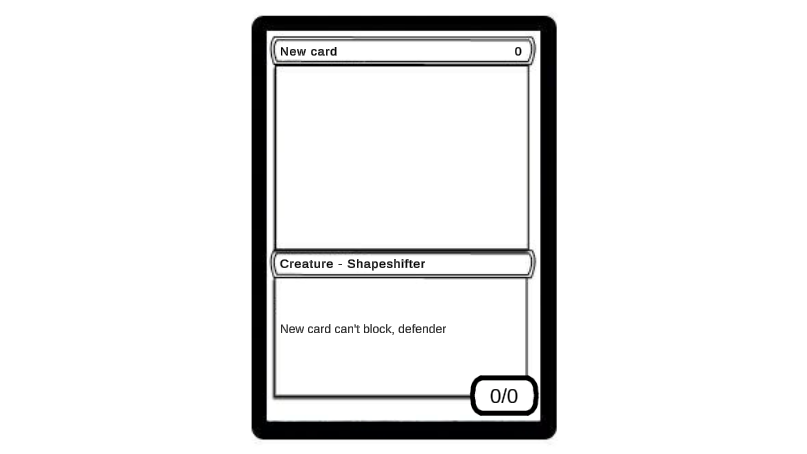
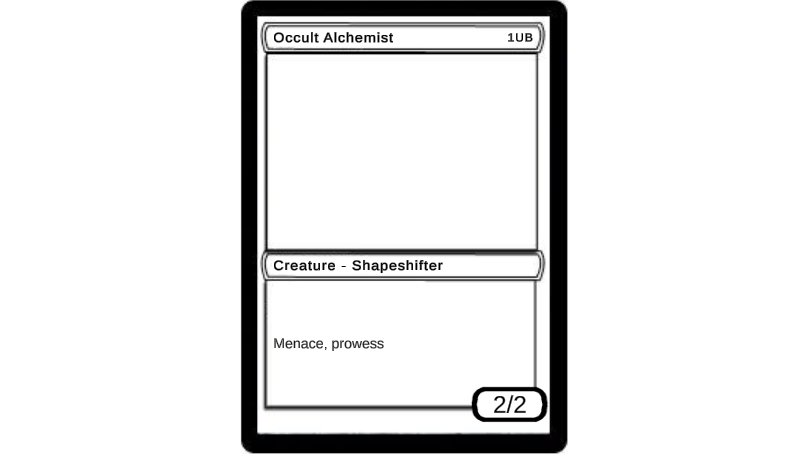
finished project

Changed region(s): [[0.2788, 0.0, 0.7125, 1.0]]

diff --git a/The Card Factory/Assets/Scripts/CardMaker.cs b/The Card Factory/Assets/Scripts/CardMaker.cs
@@ -24,14 +24,14 @@ public class Colors {
 }
 
 public class Ability {
-    public string name;
+    public string text;
     public int pointCost;
     public Colors colorRequirement;
     public bool chosen;
 
-    public Ability(string name, int pointCost, Colors colorRequirement) {
+    public Ability(string text, int pointCost, Colors colorRequirement) {
         this.pointCost = pointCost;
-        this.name = name;
+        this.text = text;
         this.colorRequirement = colorRequirement;
         chosen = false;
     }
@@ -67,6 +67,7 @@ public class CardMaker : MonoBehaviour {
         ability1 = new CreatureAbility();
         ability2 = new CreatureAbility();
 
+        Toughness = 1;
         ColorIdentity = new Colors(false, false, false, false, false);
         DefineAbilities();
         CheckValidAbilities();
@@ -87,10 +88,10 @@ public class CardMaker : MonoBehaviour {
             }
         }
 
-        if(ability1 != null && ability1.Active && HasRequiredColor(ability1.Effect.ColorRequirement)) {
+        if(ability1 != null && ability1.Active && HasRequiredColor(ability1.Effect.colorRequirement)) {
             PointTotal -= ability1.Cost;
         }
-        if(ability2 != null && ability2.Active && HasRequiredColor(ability2.Effect.ColorRequirement)) {
+        if(ability2 != null && ability2.Active && HasRequiredColor(ability2.Effect.colorRequirement)) {
             PointTotal -= ability2.Cost;
         }
     }
@@ -118,7 +119,7 @@ public class CardMaker : MonoBehaviour {
         string rulesText = "";
         foreach(Ability ability in keywordOptions) {
             if(ability.chosen) {
-                rulesText += ability.name + ", ";
+                rulesText += ability.text + ", ";
             }
         }
         if(rulesText.Length > 0) {
@@ -127,10 +128,10 @@ public class CardMaker : MonoBehaviour {
         }
 
 
-        if(ability1 != null && ability1.Active && HasRequiredColor(ability1.Effect.ColorRequirement)) {
+        if(ability1 != null && ability1.Active && HasRequiredColor(ability1.Effect.colorRequirement)) {
             rulesText += (rulesText.Length > 0 ? "\n" : "") + ability1.Text;
         }
-        if(ability2 != null && ability2.Active && HasRequiredColor(ability2.Effect.ColorRequirement)) {
+        if(ability2 != null && ability2.Active && HasRequiredColor(ability2.Effect.colorRequirement)) {
             rulesText += (rulesText.Length > 0 ? "\n" : "") + ability2.Text;
         }
 
@@ -207,7 +208,7 @@ public class CardMaker : MonoBehaviour {
     }
 
     public void DecreaseToughness() {
-        if(Toughness <= 0) {
+        if(Toughness <= 1) {
             return;
         }
 
@@ -224,25 +225,11 @@ public class CardMaker : MonoBehaviour {
         UpdateCard();
     }
 
-    public void ToggleWhite() {
-        ToggleColor(ref ColorIdentity.white);
-    }
-
-    public void ToggleBlue() {
-        ToggleColor(ref ColorIdentity.blue);
-    }
-
-    public void ToggleBlack() {
-        ToggleColor(ref ColorIdentity.black);
-    }
-
-    public void ToggleRed() {
-        ToggleColor(ref ColorIdentity.red);
-    }
-
-    public void ToggleGreen() {
-        ToggleColor(ref ColorIdentity.green);
-    }
+    public void ToggleWhite() { ToggleColor(ref ColorIdentity.white); }
+    public void ToggleBlue() { ToggleColor(ref ColorIdentity.blue); }
+    public void ToggleBlack() { ToggleColor(ref ColorIdentity.black); }
+    public void ToggleRed() { ToggleColor(ref ColorIdentity.red); }
+    public void ToggleGreen() { ToggleColor(ref ColorIdentity.green); }
 
     public void ToggleKeyword(Toggle thrower) {
         Ability ability = keywordOptions[keywordToggles.IndexOf(thrower)];
@@ -287,19 +274,19 @@ public class CardMaker : MonoBehaviour {
     private void DefineAbilities() {
         keywordOptions = new Ability[16];
 
-        keywordOptions[0] = new Ability("CARDNAME can't block", -1, new Colors(true, true, true, true, true));
-        keywordOptions[1] = new Ability("defender", -1, new Colors(true, true, true, true, true));
-        keywordOptions[2] = new Ability("flying", 2, new Colors(true, true, true, false, false));
+        keywordOptions[0] = new Ability("CARDNAME can't block", -2, new Colors(true, true, true, true, true));
+        keywordOptions[1] = new Ability("defender", -2, new Colors(true, true, true, true, true));
+        keywordOptions[2] = new Ability("flying", 3, new Colors(true, true, true, false, false));
         keywordOptions[3] = new Ability("reach", 1, new Colors(false, false, false, true, true));
-        keywordOptions[4] = new Ability("haste", 2, new Colors(false, false, false, true, false));
-        keywordOptions[5] = new Ability("trample", 2, new Colors(false, false, false, true, true));
-        keywordOptions[6] = new Ability("menace", 1, new Colors(false, false, true, true, false));
-        keywordOptions[7] = new Ability("deathtouch", 1, new Colors(false, false, true, false, true));
-        keywordOptions[8] = new Ability("lifelink", 2, new Colors(true, false, true, false, false));
-        keywordOptions[9] = new Ability("vigilance", 2, new Colors(true, false, false, false, true));
-        keywordOptions[10] = new Ability("first strike", 2, new Colors(true, false, false, true, false));
-        keywordOptions[11] = new Ability("double strike", 5, new Colors(true, false, false, true, false));
-        keywordOptions[12] = new Ability("prowess", 2, new Colors(true, true, false, true, false));
+        keywordOptions[4] = new Ability("haste", 3, new Colors(false, false, false, true, false));
+        keywordOptions[5] = new Ability("trample", 3, new Colors(false, false, false, true, true));
+        keywordOptions[6] = new Ability("menace", 2, new Colors(false, false, true, true, false));
+        keywordOptions[7] = new Ability("deathtouch", 2, new Colors(false, false, true, false, true));
+        keywordOptions[8] = new Ability("lifelink", 3, new Colors(true, false, true, false, false));
+        keywordOptions[9] = new Ability("vigilance", 3, new Colors(true, false, false, false, true));
+        keywordOptions[10] = new Ability("first strike", 3, new Colors(true, false, false, true, false));
+        keywordOptions[11] = new Ability("double strike", 6, new Colors(true, false, false, true, false));
+        keywordOptions[12] = new Ability("prowess", 4, new Colors(true, true, false, true, false));
         keywordOptions[13] = new Ability("skulk", 2, new Colors(false, true, true, false, false));
         keywordOptions[14] = new Ability("ward 2", 3, new Colors(true, true, false, false, true));
         keywordOptions[15] = new Ability("indestructible", 6, new Colors(true, false, true, false, true));

diff --git a/The Card Factory/Assets/Scripts/CreatureAbility.cs b/The Card Factory/Assets/Scripts/CreatureAbility.cs
@@ -14,26 +14,14 @@ public struct AbilityTrigger {
     }
 }
 
-public struct AbilityEffect {
-    public string Text { get; private set; }
-    public int Cost { get; private set; }
-    public Colors ColorRequirement { get; private set; }
-
-    public AbilityEffect(string text, int cost, Colors colorRequirement) {
-        Text = text;
-        Cost = cost;
-        ColorRequirement = colorRequirement;
-    }
-}
-
 public class CreatureAbility
 {
-    public string Text { get { return Trigger.Text + Effect.Text + "."; } }
-    public int Cost { get { return Trigger.CalculateCost(Effect.Cost); } }
+    public string Text { get { return Trigger.Text + Effect.text + "."; } }
+    public int Cost { get { return Trigger.CalculateCost(Effect.pointCost); } }
     public bool Active { get; set; }
 
     public AbilityTrigger Trigger;
-    public AbilityEffect Effect;
+    public Ability Effect;
 
     public CreatureAbility() {
         Trigger = Triggers[0];
@@ -41,20 +29,29 @@ public class CreatureAbility
         Active = false;
     }
 
-    public static AbilityTrigger[] Triggers = new AbilityTrigger[5] {
+    public static AbilityTrigger[] Triggers = new AbilityTrigger[7] {
         new AbilityTrigger("When CARDNAME enters the battlefield, ", (cost) => { return cost + 2; }),
         new AbilityTrigger("When CARDNAME dies, ", (cost) => { return cost; }),
-        new AbilityTrigger("Whenever CARDNAME deals combat damage to a player, ", (cost) => { return cost * 2 - 1; }),
-        new AbilityTrigger("(>): ", (cost) => { return cost * 2; }),
-        new AbilityTrigger("2, (>): ", (cost) => { return cost; })
+        new AbilityTrigger("Sacrifice CARDNAME: ", (cost) => { return cost + 1; }),
+        new AbilityTrigger("Whenever CARDNAME deals combat damage to a player, ", (cost) => { return cost * 2; }),
+        new AbilityTrigger("(>): ", (cost) => { return cost * 2 + 2; }),
+        new AbilityTrigger("(2), (>): ", (cost) => { return Mathf.CeilToInt(cost * 1.5f); }),
+        new AbilityTrigger("(4): ", (cost) => { return cost + 2; }),
     };
 
-    public static AbilityEffect[] Effects = new AbilityEffect[6] {
-        new AbilityEffect("draw a card", 4, new Colors(false, true, false, false, true)),
-        new AbilityEffect("surveil 2", 1, new Colors(false, true, true, false, true)),
-        new AbilityEffect("create a treasure token", 3, new Colors(false, false, false, true, true)),
-        new AbilityEffect("create a 1/1 colorless Human creature token", 2, new Colors(true, false, false, true, true)),
-        new AbilityEffect("put a +1/+1 counter on target creature you control", 2, new Colors(true, false, true, false, true)),
-        new AbilityEffect("you gain 3 life", 1, new Colors(true, false, true, false, true))
+    public static Ability[] Effects = new Ability[13] {
+        new Ability("draw a card, then discard a card", 1, new Colors(false, true, false, true, false)),
+        new Ability("you gain 3 life", 1, new Colors(true, false, true, false, true)),
+        new Ability("CARDNAME deals 1 damage to each opponent", 2, new Colors(false, false, true, true, false)),
+        new Ability("put a +1/+1 counter on target creature you control", 2, new Colors(true, false, true, false, true)),
+        new Ability("draw a card", 5, new Colors(false, true, false, false, true)),
+        new Ability("create a treasure token", 4, new Colors(false, false, false, true, true)),
+        new Ability("create a 2/2 colorless Shapeshifter creature token", 5, new Colors(true, false, false, true, true)),
+        new Ability("return target card from your graveyard to your hand", 6, new Colors(false, false, false, false, true)),
+        new Ability("return target creature card from your graveyard to the battlefield", 12, new Colors(true, false, true, false, false)),
+        new Ability("return target nonland permanent to its owner's hand", 6, new Colors(false, true, false, false, false)),
+        new Ability("exile target nonland permanent until CARDNAME leaves the battlefield", 9, new Colors(true, false, false, false, false)),
+        new Ability("destroy target artifact or enchantment", 6, new Colors(true, false, false, false, true)),
+        new Ability("CARDNAME fights target creature an opponent controls", 4, new Colors(false, false, false, true, true))
     };
 }
